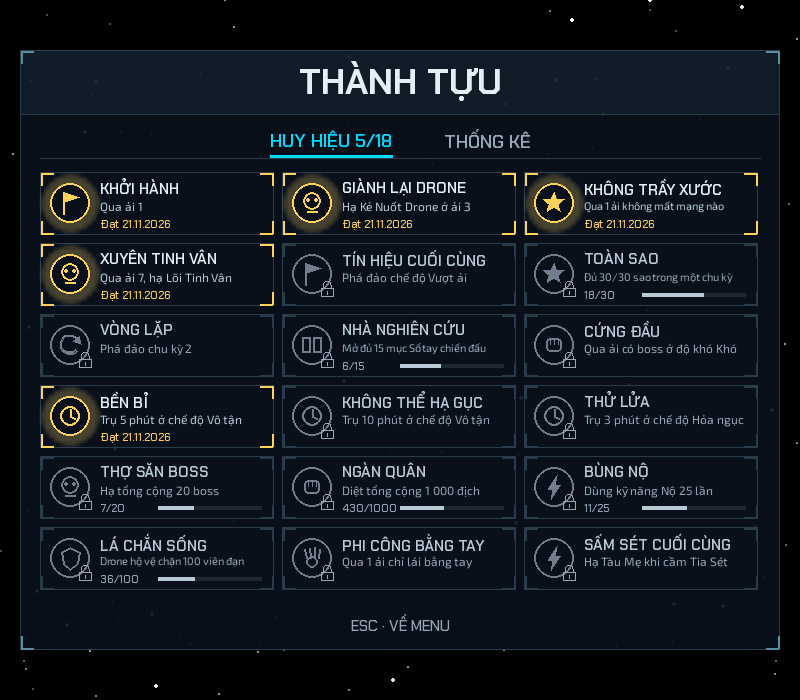
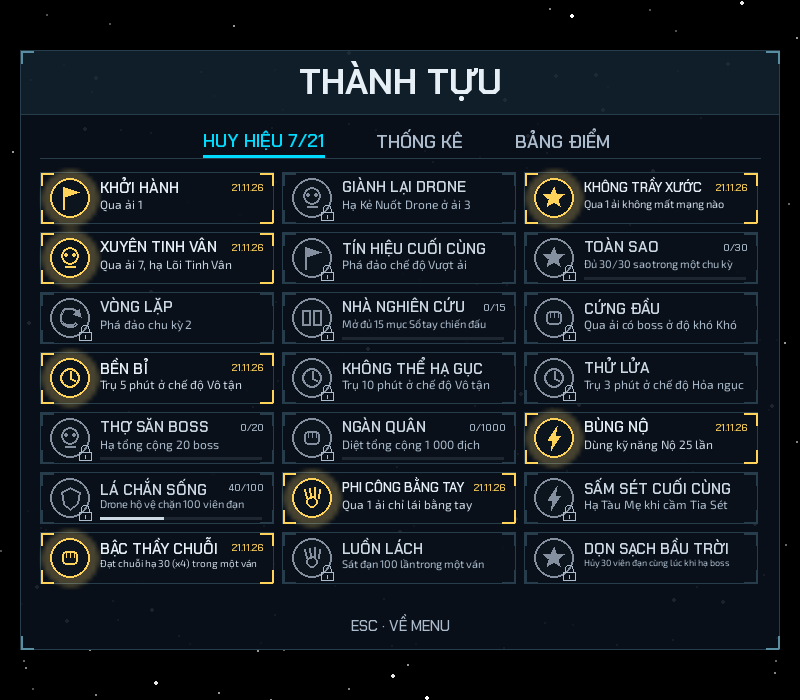
feat(achievements): 3 huy hiệu lối chơi (chuỗi 30, sát đạn 100, hủy 30 đạn) - tổng 21
- RunStats.best_combo / grazes / best_cancel (World.best_cancel ghi số đạn hủy nhiều nhất một lần)
- Thẻ huy hiệu 7 hàng: ngày đạt (dd.mm.yy) / tiến độ nằm bên phải tên, thanh tiến độ sát đáy
- README: ảnh Thành tựu + Bảng điểm; 2 test mới (151)

Claude-Session: https://claude.ai/code/session_01WVBMXqNvnUcAfxJJ2Ki9eT

Changed region(s): [[0.0312, 0.18, 0.9688, 0.84], [0.6562, 0.81, 0.6875, 0.84], [0.1875, 0.24, 0.2188, 0.27]]

diff --git a/spaceship/scenes/info.py b/spaceship/scenes/info.py
@@ -340,21 +340,27 @@ class AchievementsScene(Scene):
                 draw_lock(surface, (center[0] + 15, center[1] + 15), MUTED)
             tx = card.x + 60
             width = card.right - 12 - tx
-            name = fit_text(a, item.name, 15, TEXT if got else SECONDARY, width, role="ui")
-            surface.blit(name, (tx, card.y + 6))
-            how = fit_text(a, item.how, 12, SECONDARY if got else MUTED, width, role="body")
-            surface.blit(how, (tx, card.y + 27))
-            footer = ""
+            # Thẻ thấp (7 hàng): ngày đạt / tiến độ nằm bên phải dòng tên, thanh tiến độ sát đáy thẻ.
+            footer, progress = "", None
             if got:
-                footer = "Đạt " + ".".join(reversed(earned[item.key].split("-")))
+                y, m, d = (earned[item.key].split("-") + ["", "", ""])[:3]
+                footer = f"{d}.{m}.{y[2:]}"                    # ngày đạt (màu vàng = đã đạt), ngắn để tên đủ chỗ
             elif self._progress(item.key) is not None:
                 cur, goal = self._progress(item.key)
-                footer = f"{min(cur, goal)}/{goal}"
-                bar = pygame.Rect(tx + 58, card.bottom - 13, width - 58, 4)
-                pygame.draw.rect(surface, (30, 38, 50), bar)
-                pygame.draw.rect(surface, SECONDARY, (bar.x, bar.y, bar.w * min(1, cur / goal), bar.h))
+                footer, progress = f"{min(cur, goal)}/{goal}", min(1, cur / goal)
+            tag_w = 0
             if footer:
-                surface.blit(a.text(footer, 11, BADGE_COLOR if got else MUTED, role="label"), (tx, card.bottom - 18))
+                tag = a.text(footer, 10, BADGE_COLOR if got else MUTED, role="label")
+                tag_w = tag.get_width() + 6
+                surface.blit(tag, (card.right - 10 - tag.get_width(), card.y + 9))
+            name = fit_text(a, item.name, 15, TEXT if got else SECONDARY, width - tag_w, role="ui")
+            surface.blit(name, (tx, card.y + 5))
+            how = fit_text(a, item.how, 12, SECONDARY if got else MUTED, width, role="body")
+            surface.blit(how, (tx, card.y + 25))
+            if progress is not None:
+                bar = pygame.Rect(tx, card.bottom - 7, width, 3)
+                pygame.draw.rect(surface, (30, 38, 50), bar)
+                pygame.draw.rect(surface, SECONDARY, (bar.x, bar.y, bar.w * progress, bar.h))
 
     def _draw_board(self, surface, a) -> None:
         """5 ván điểm cao nhất của mỗi chế độ, mỗi chế độ một cột."""

diff --git a/tests/test_achievements.py b/tests/test_achievements.py
@@ -93,7 +93,7 @@ class AchievementGameTest(unittest.TestCase):
         scene.draw(self.game.screen)
         scene.menu.activate(0)
         self.assertEqual(scene.tab, 0)
-        self.assertEqual(len(achievements.ACHIEVEMENTS), 18)
+        self.assertEqual(len(achievements.ACHIEVEMENTS), 21)
 
     def test_new_game_wipes_progress_keeps_settings_and_backs_up(self):
         save = self.game.save
@@ -124,3 +124,22 @@ class AchievementGameTest(unittest.TestCase):
 
 if __name__ == "__main__":
     unittest.main()
+
+
+class PlayStyleBadgeTest(unittest.TestCase):
+    def test_combo_graze_cancel_badges(self):
+        save = SaveData(path=Path(tempfile.mkdtemp()) / "save.json")
+        run = RunStats(GameMode.ENDLESS, best_combo=29, grazes=99, best_cancel=29)
+        self.assertFalse({"combo30", "graze100", "cancel30"} & {a.key for a in evaluate(save, run)})
+        run.best_combo, run.grazes, run.best_cancel = 30, 100, 30
+        self.assertTrue({"combo30", "graze100", "cancel30"} <= {a.key for a in evaluate(save, run)})
+
+    def test_gameplay_feeds_play_style_stats(self):
+        game = Game(camera=False, seed=2)
+        play = GameplayScene(game, GameMode.ENDLESS)
+        game.change_scene(play)
+        game._apply_pending_scene()
+        w = play.world
+        w.best_combo, w.grazes, w.best_cancel = 31, 120, 40
+        play._sync_run()
+        self.assertEqual((play.run.best_combo, play.run.grazes, play.run.best_cancel), (31, 120, 40))

diff --git a/spaceship/campaign/achievements.py b/spaceship/campaign/achievements.py
@@ -30,6 +30,9 @@ class RunStats:
     hand_ticks: int = 0
     keyboard_used: bool = False
     mother_by_lightning: bool = False
+    best_combo: int = 0             # chuỗi hạ dài nhất trong ván
+    grazes: int = 0                 # số lần sát đạn
+    best_cancel: int = 0            # số đạn hủy nhiều nhất trong một lần (hạ boss / boss đổi pha)
     recorded: bool = False          # True: kills/skills... đã cộng vào file lưu, không cộng lần nữa
 
 
@@ -106,6 +109,12 @@ ACHIEVEMENTS: tuple[Achievement, ...] = (
                 lambda s, r: r is not None and r.cleared and r.hand_ticks > 600 and not r.keyboard_used),
     Achievement("thunder", "SẤM SÉT CUỐI CÙNG", "Hạ Tàu Mẹ khi cầm Tia Sét", "bolt",
                 lambda s, r: r is not None and r.mother_by_lightning),
+    Achievement("combo30", "BẬC THẦY CHUỖI", "Đạt chuỗi hạ 30 (x4) trong một ván", "fist",
+                lambda s, r: r is not None and r.best_combo >= 30),
+    Achievement("graze100", "LUỒN LÁCH", "Sát đạn 100 lần trong một ván", "hand",
+                lambda s, r: r is not None and r.grazes >= 100),
+    Achievement("cancel30", "DỌN SẠCH BẦU TRỜI", "Hủy 30 viên đạn cùng lúc khi hạ boss", "star",
+                lambda s, r: r is not None and r.best_cancel >= 30),
 )
 BY_KEY = {a.key: a for a in ACHIEVEMENTS}
 

diff --git a/spaceship/systems/world.py b/spaceship/systems/world.py
@@ -62,6 +62,8 @@ class World:
     best_combo: int = 0
     #: số lần đạn địch sượt qua tàu (sát đạn)
     grazes: int = 0
+    #: số đạn hủy nhiều nhất trong một lần (huy hiệu)
+    best_cancel: int = 0
     banner: str = ""
     banner_ticks: int = 0
     #: chu kỳ Vượt ải (Vòng lặp tín hiệu); chế độ khác luôn 1
@@ -183,6 +185,7 @@ class World:
         for bullet in self.enemy_bullets:
             self.particles.append(Flash(bullet.x, bullet.y, (255, 220, 110), radius=9, life=12))
         self.enemy_bullets.clear()
+        self.best_cancel = max(self.best_cancel, count)
         if count:
             self.score += count * config.BULLET_CANCEL_SCORE
             self.play("bullet_cancel")

diff --git a/spaceship/scenes/gameplay.py b/spaceship/scenes/gameplay.py
@@ -221,6 +221,7 @@ class GameplayScene(Scene):
         w, run = self.world, self.run
         run.time, run.kills, run.boss_kills = w.survival_time, w.kills, w.boss_kills
         run.skills, run.guard_blocks = w.skills_used, w.guard_blocks
+        run.best_combo, run.grazes, run.best_cancel = w.best_combo, w.grazes, w.best_cancel
 
     def _track_run(self, controls) -> None:
         run = self.run

diff --git a/CHANGELOG.md b/CHANGELOG.md
@@ -19,10 +19,13 @@
 - **Thống kê**: lưu chuỗi hạ dài nhất của từng chế độ (`ModeRecord.best_combo`), hiện dưới Điểm cao.
 - **Bảng điểm** (thẻ thứ 3 ở màn Thành tựu): 5 ván điểm cao nhất mỗi chế độ, kèm ải / thời gian, chuỗi dài nhất,
   ngày chơi (`ModeRecord.top_runs`; file lưu cũ / dữ liệu lạ vẫn nạp được).
+- **3 huy hiệu mới** (tổng 21): Bậc thầy chuỗi (chuỗi 30), Luồn lách (100 lần sát đạn trong một ván), Dọn sạch
+  bầu trời (hủy 30 viên đạn cùng lúc). Thẻ huy hiệu thấp hơn để đủ 7 hàng: ngày đạt / tiến độ nằm bên phải tên.
 - Bảng trái màn rộng hiện số lần **sát đạn**; mất chuỗi từ 10 trở lên hiện chữ đỏ **"MẤT CHUỖI N"**.
 - **Tiếng mới** (tổng hợp bằng numpy): `lock_on`, `heartbeat` (khớp nhịp viền đỏ khi máu thấp), `bullet_cancel`,
   `graze`.
-- 25 test mới (`tests/test_crisp.py`, thêm vào `tests/test_game_feel.py`, `tests/test_storage.py`), tổng 149. Chạy thử ngẫu nhiên dài
+- 27 test mới (`tests/test_crisp.py`, thêm vào `tests/test_game_feel.py`, `tests/test_storage.py`,
+  `tests/test_achievements.py`), tổng 151. Chạy thử ngẫu nhiên dài
   (10 ải + Vô tận + Hỏa ngục, 1 phút mỗi chế độ, 6 cỡ cửa sổ) không lỗi.
 
 ## [2.1.0-dev] – Cảm giác đánh

diff --git a/README.md b/README.md
@@ -46,8 +46,8 @@
 | **Hướng dẫn: súng bắn thử ngay trong thẻ** | **Sổ tay chiến đấu: mở dần khi gặp địch** |
 | ![Hướng dẫn](docs/screenshots/huong-dan.png) | ![Sổ tay chiến đấu](docs/screenshots/so-tay.png) |
 
-| **Thành tựu: 18 huy hiệu** | |
-| ![Thành tựu](docs/screenshots/thanh-tuu.png) | |
+| **Thành tựu: 21 huy hiệu** | **Bảng điểm: 5 ván cao nhất mỗi chế độ** |
+| ![Thành tựu](docs/screenshots/thanh-tuu.png) | ![Bảng điểm](docs/screenshots/bang-diem.png) |
 
 **Toàn màn hình 16:9:** chiến trường giữ nguyên ở giữa, thông tin trận và ô camera tay dời ra hai bảng bên.
 
